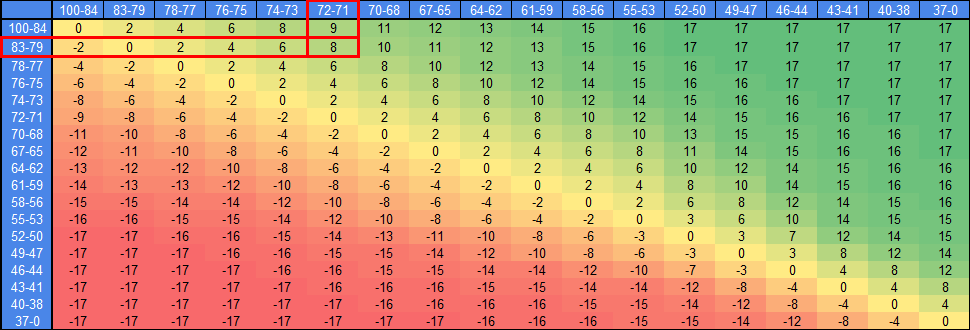
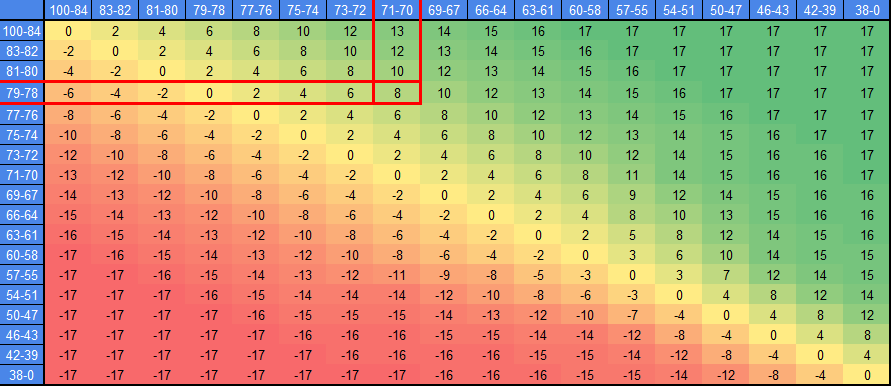
README actualizado

diff --git a/README.md b/README.md
@@ -72,19 +72,19 @@ Aplicación desarrollada con **Angular** (frontend) y **Spring Boot** (backend) 
 
 - Todos los equipos del juego cuentan con un score del 1 al 100.
 - Todos los partidos constarán de un Equipo 1 y un Equipo 2.
-- Tomaremos el siguiente partido como ejemplo: Uruguay (score 79) vs. Nigeria (score 72).
+- Tomaremos el siguiente partido como ejemplo: Uruguay (score 79) vs. Australia (score 71).
 - Lo primero que hará el juego es ubicar ambos scores en la matriz de vectores de probabilidad (Equipo 1 en las filas, Equipo 2 en las columnas).
 - En nuestro ejemplo, el vector elegido será el que posee el código 8:
 
 ![Matriz de vectores](images/matriz_vectores.png)
 
-- Buscamos el vector con el código 8 en el listado de vectores, el mismo contemplará contemplará un 62% de probabilidades de que gane Uruguay (Equipo 1), 24% de que empaten y 14% de que gane Nigeria (Equipo 2).
+- Buscamos el vector con el código 8 en el listado de vectores, el mismo contemplará contemplará un 62% de probabilidades de que gane Uruguay (Equipo 1), 24% de que empaten y 14% de que gane Australia (Equipo 2).
 
 ![Vector](images/vectores.png)
 
 - Fíjese que, cuanto más alto es el número, mayor será la probabilidad de que gane el Equipo 1 y viceversa.
-- El mismo vector pero en negativo contemplatá el mismo vector de probabilidades pero a la inversa. Osea que si Nigeria fuera el Equipo 1 y Uruguay el Equipo 2, el vector elegido será -8 (14-24-62 serían las probabilidades).
-- Luego, el juego sorteará un número entero del 1 al 100, y se podrán dar 3 posibilidades: si sale un valor del 1 al 62, ganará Uruguay (62%), del 63 al 86 empatarán (24%), y del 87 al 100 ganará Nigeria (14%.)
+- El mismo vector pero en negativo contemplatá el mismo vector de probabilidades pero a la inversa. Osea que si Australia fuera el Equipo 1 y Uruguay el Equipo 2, el vector elegido será -8 (14-24-62 serían las probabilidades).
+- Luego, el juego sorteará un número entero del 1 al 100, y se podrán dar 3 posibilidades: si sale un valor del 1 al 62, ganará Uruguay (62%), del 63 al 86 empatarán (24%), y del 87 al 100 ganará Australia (14%.)
 - ¿Cómo se sabrá el resultado exacto con goles? De la siguiente manera: supongamos que sale sorteado el número 53 (ganará Uruguay), el resultado elegido tendrá el código 10.
 
 ![Matriz de resultados](images/matriz_resultados.png)
@@ -93,7 +93,7 @@ Aplicación desarrollada con **Angular** (frontend) y **Spring Boot** (backend) 
 
 ![Resultados](images/resultados.png)
 
-- Y finalmente, ya fue determinado de manera exacta el resultado de Uruguay vs. Nigeria, arrojando una victoria por 1 a 0 del conjunto rioplatense.
+- Y finalmente, ya fue determinado de manera exacta el resultado de Uruguay vs. Australia, arrojando una victoria por 1 a 0 del conjunto rioplatense.
 
 ## 🛠 Próximas Mejoras
 - Jugar torneos reales (Mundial, Champions League, Copa Libertadores, Liga Argentina y más).
